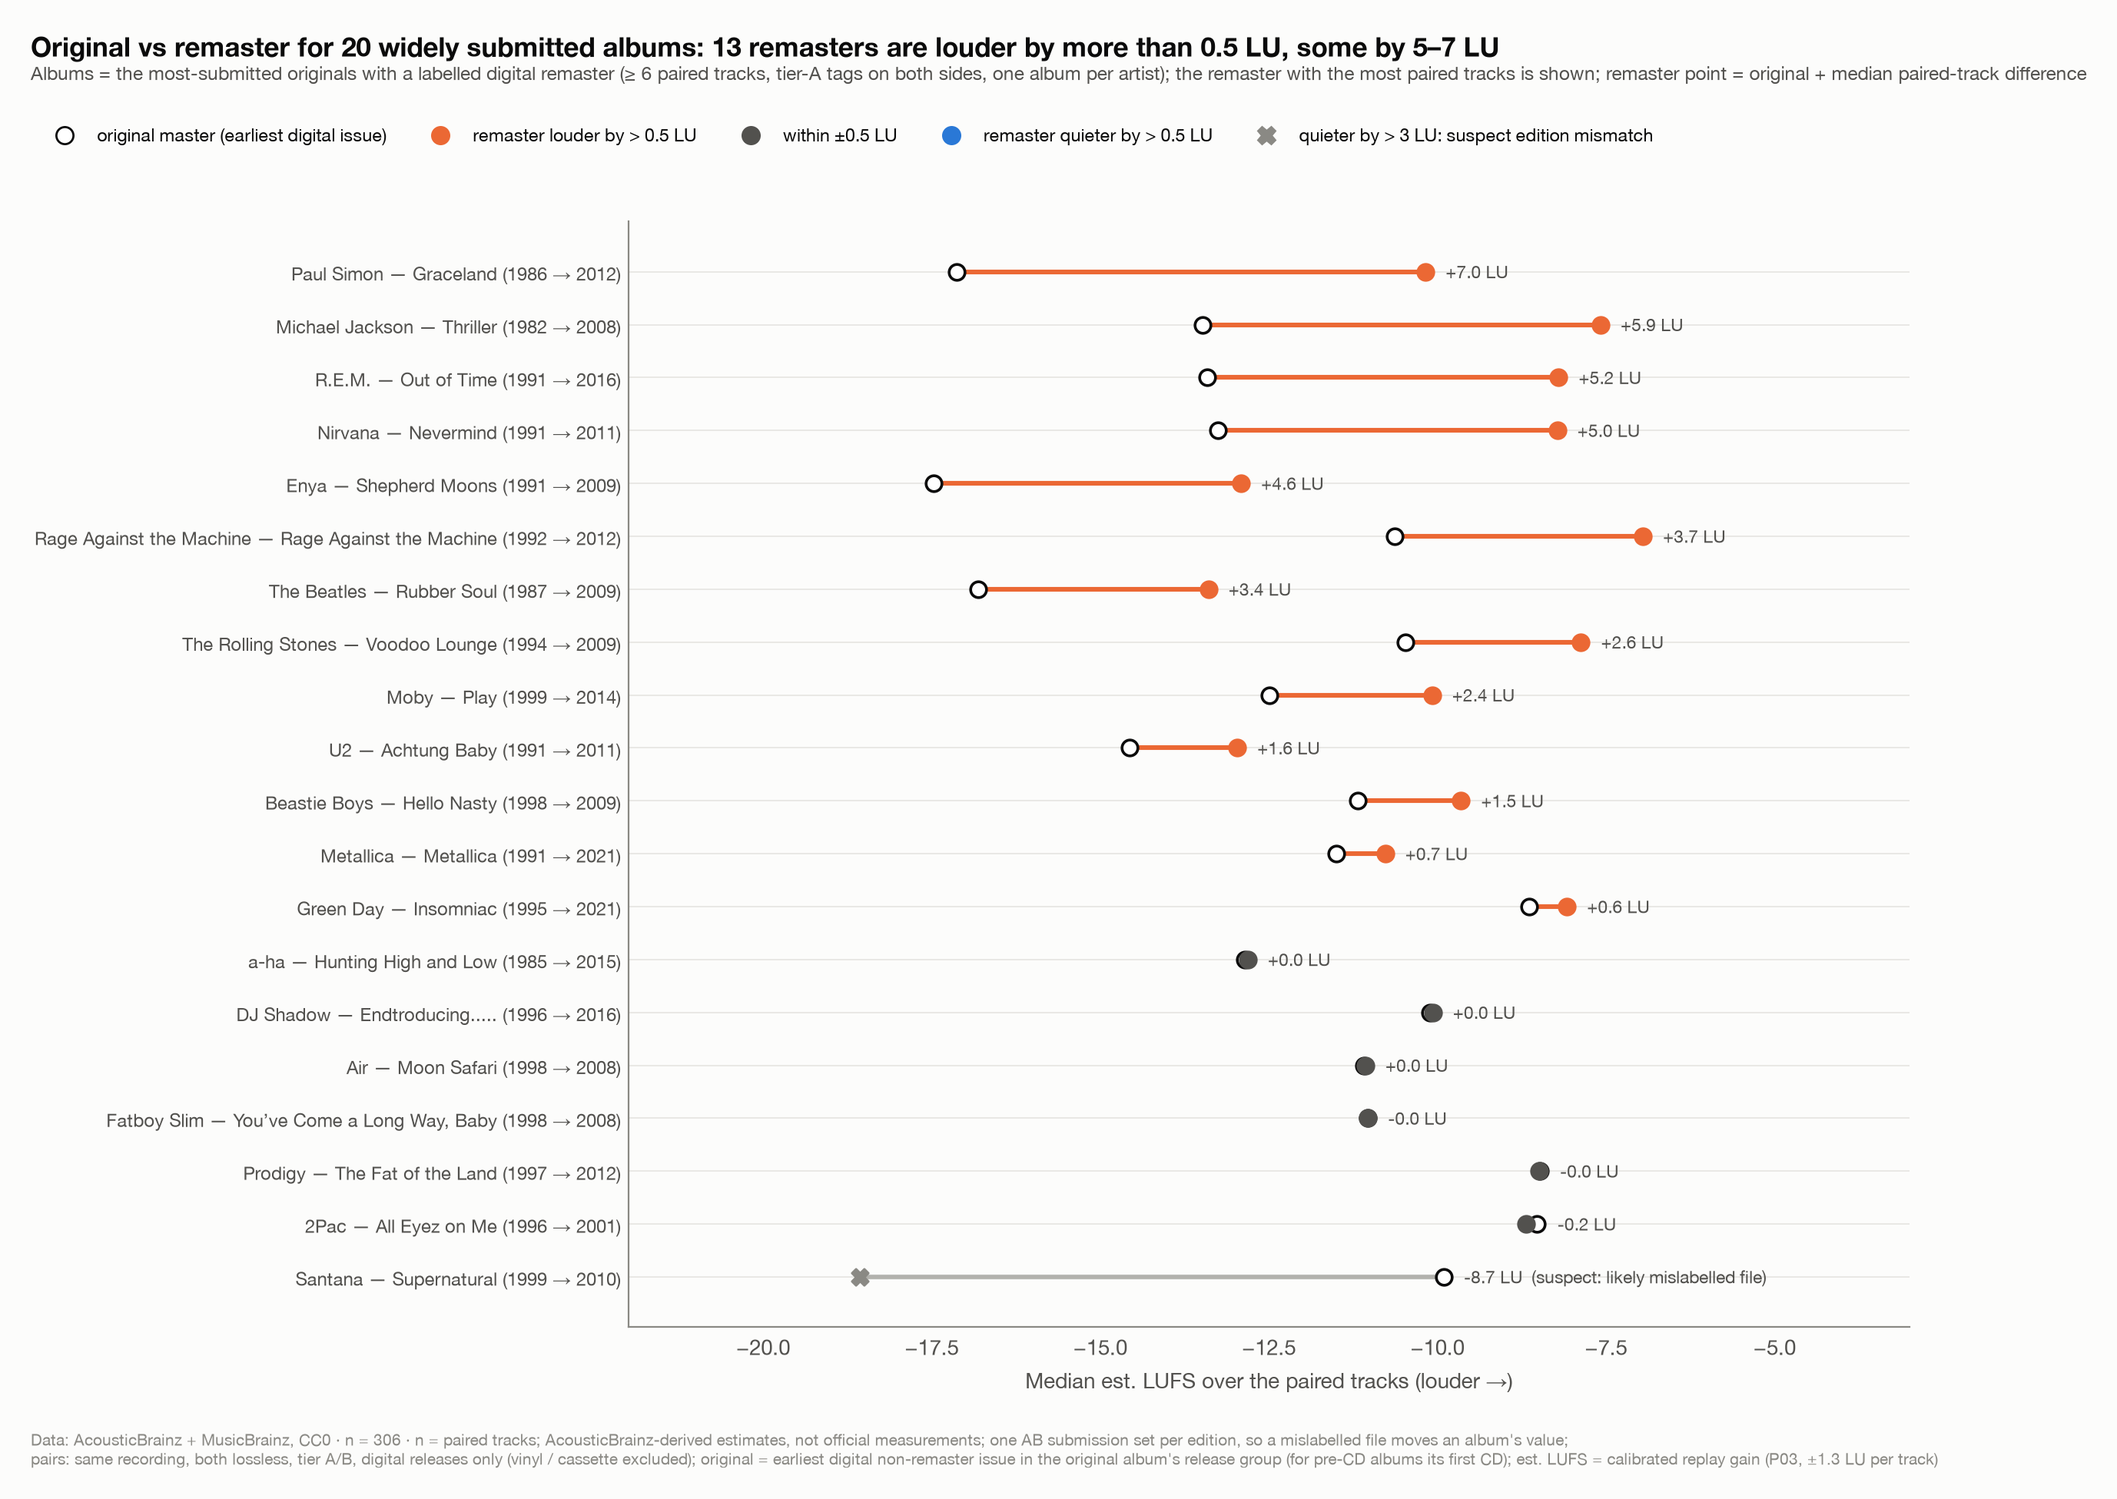
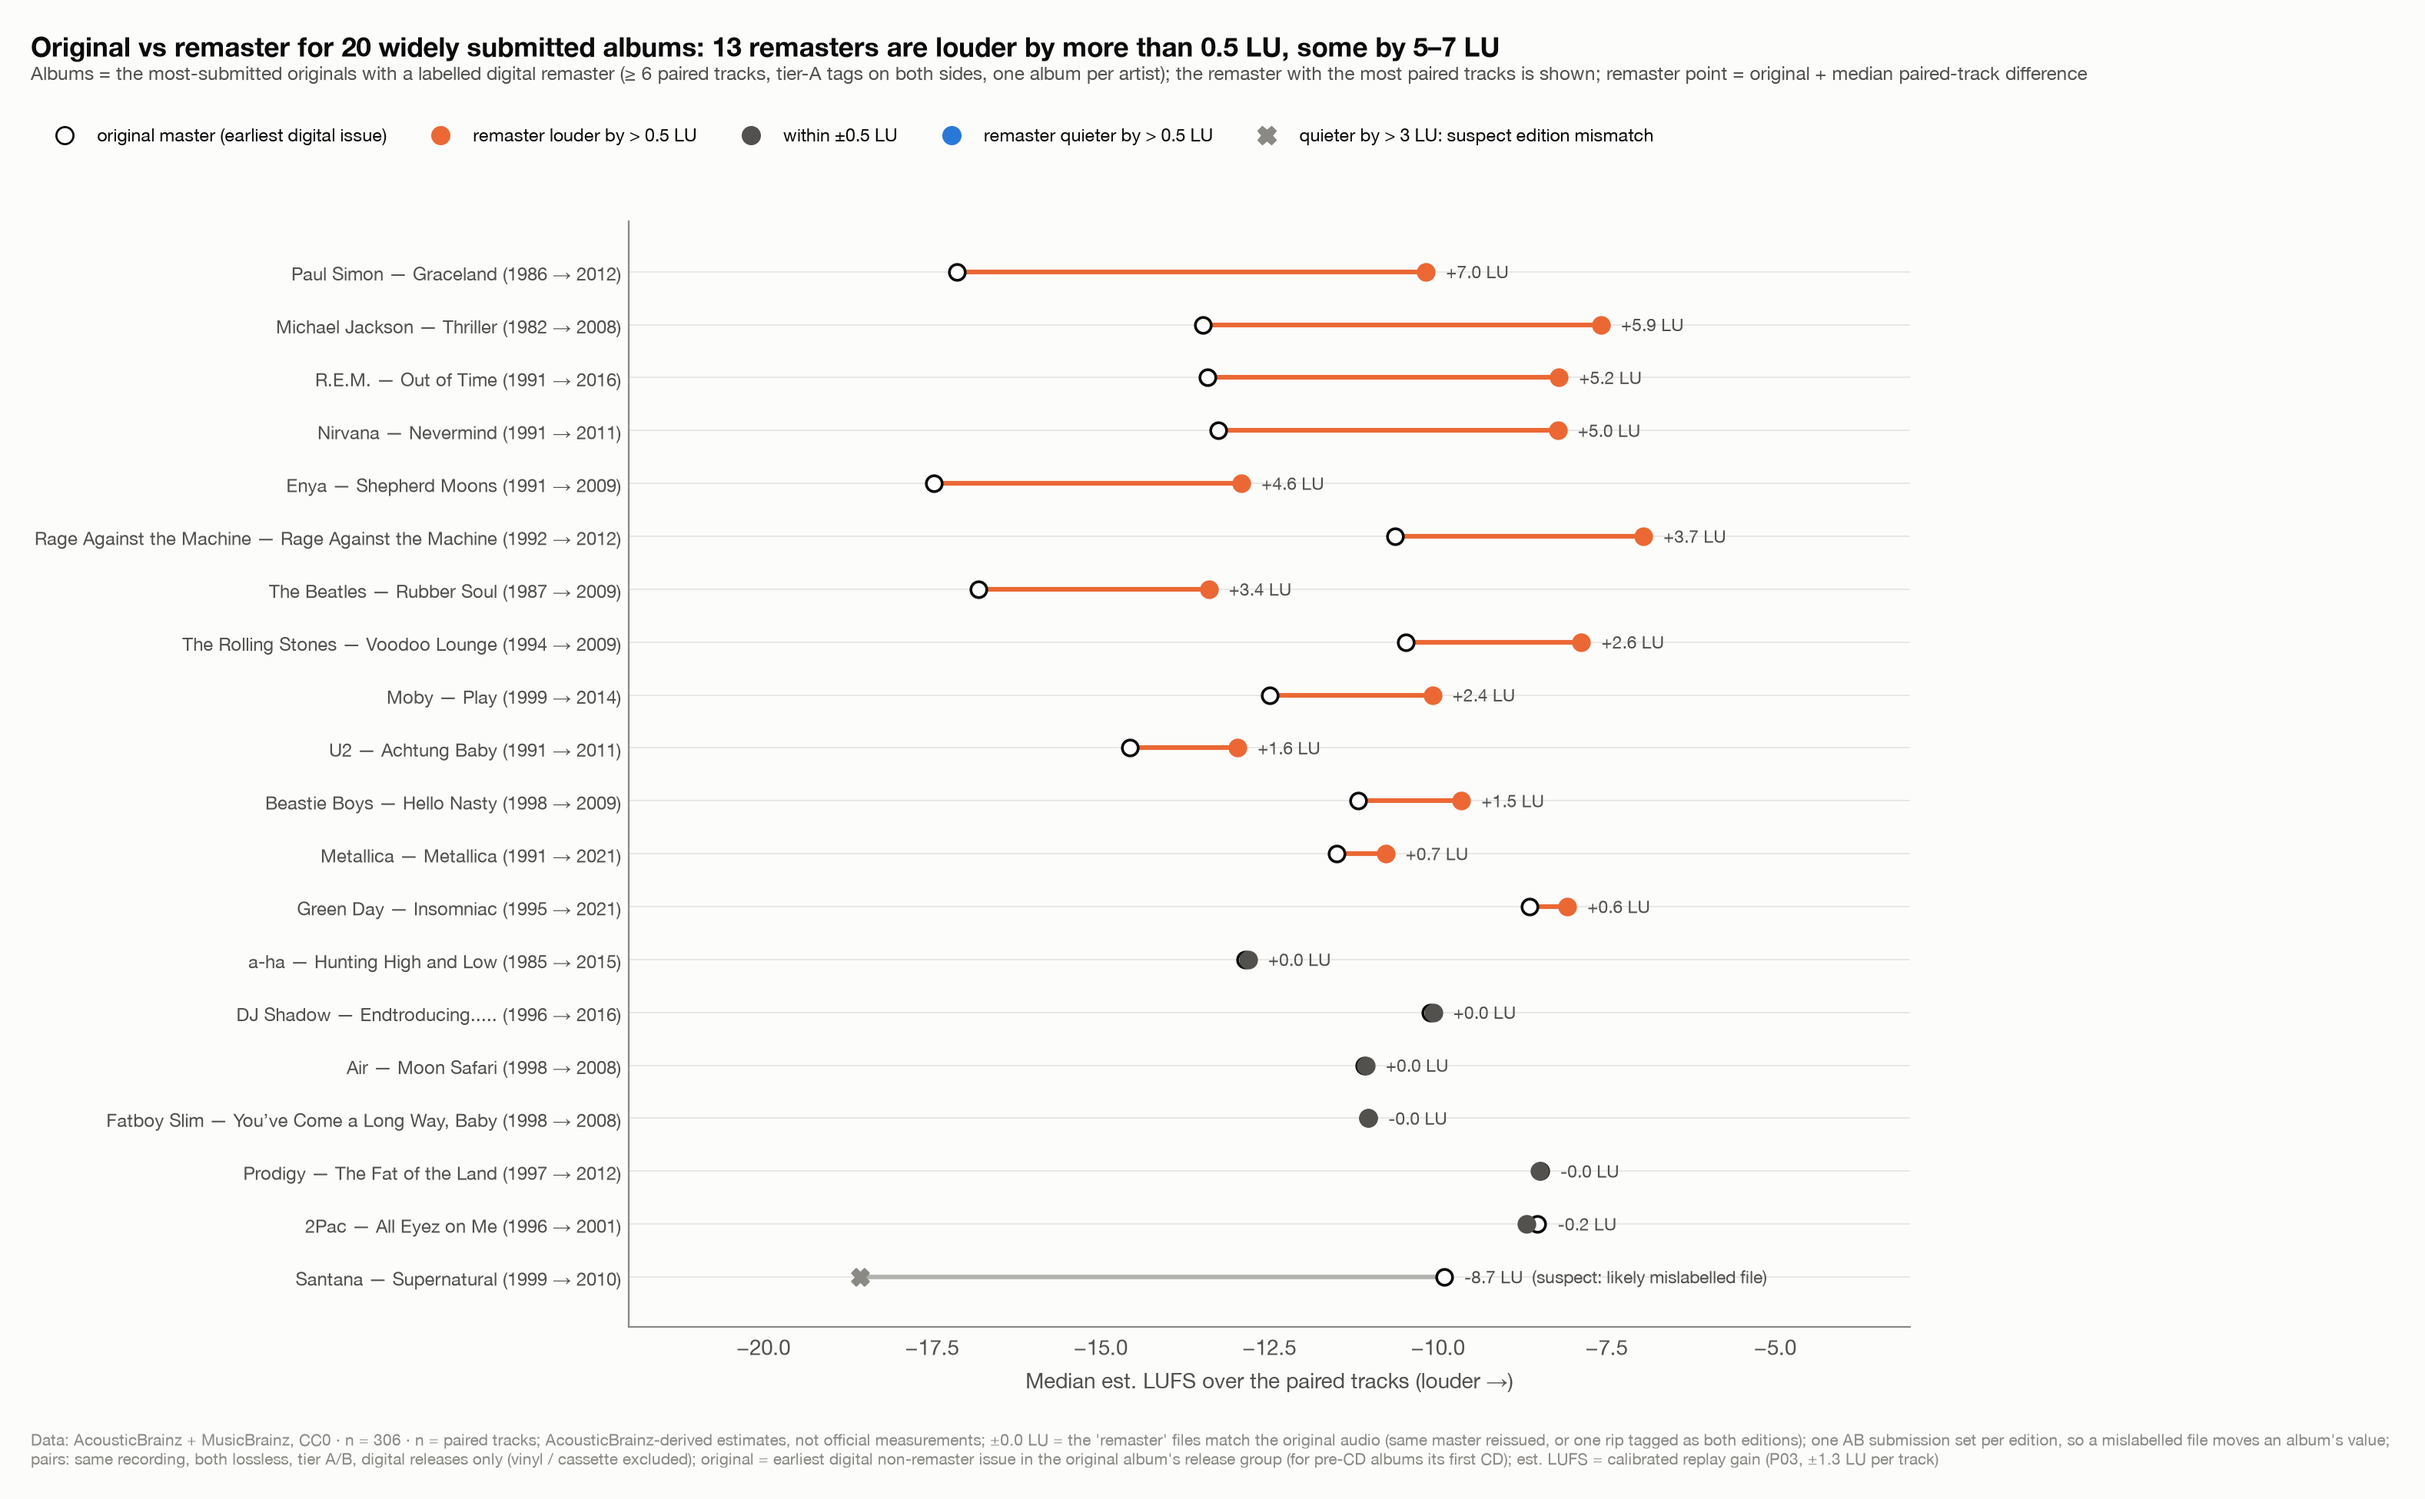
P16: dumbbell caption note on identical-audio pairs (user decisions)

diff --git a/src/lw/viz/p16.py b/src/lw/viz/p16.py
@@ -170,7 +170,8 @@ def fig_dumbbell() -> None:
                  "the remaster with the most paired tracks is shown; remaster point = original + median paired-track difference", fontsize=8.8, color=theme.TEXT_2)  # fmt: skip
     fig.tight_layout(rect=(0, 0, 1, 0.9))
     theme.save_fig(fig, "p16_dumbbell_famous_albums", n=int(f["n_tracks"].sum()), source=SRC,
-                   note=f"n = paired tracks; AcousticBrainz-derived estimates, not official measurements; one AB submission set per edition, so a mislabelled file moves an album's value; {NOTE}")  # fmt: skip
+                   note=f"n = paired tracks; AcousticBrainz-derived estimates, not official measurements; ±0.0 LU = the 'remaster' files match the original audio (same master reissued, or one rip tagged as both editions); "
+                        f"one AB submission set per edition, so a mislabelled file moves an album's value; {NOTE}")  # fmt: skip
 
 
 def main() -> None:

diff --git a/notes/p16_remaster_pairs.md b/notes/p16_remaster_pairs.md
@@ -88,6 +88,8 @@ This is the same timing as new releases (P13–P15): a turn in the late 2000s, n
   - (b, c) period effects for remasters, reissues and later compilations, for LUFS and LRA.
 - `figures/p16_dumbbell_famous_albums.png`: brief chart 4. 20 widely submitted albums, chosen as the most-submitted originals with a labelled digital remaster, at least 6 paired tracks, tier A on both sides and one album per artist. The remaster point is the original plus the median paired-track difference.
 
+**User decisions (2026-11-07):** keep the automatic, reproducible album rule for the dumbbell (hand-picked iconic albums go to P18's own CD rips instead), and keep the identical-audio albums, with a caption note.
+
 ## For later prompts
 
 - **P18:** the user's own CD rips should include an original + remaster pair (already planned). Use them to check the dumbbell albums where possible, and the size of the mis-tag attenuation.
